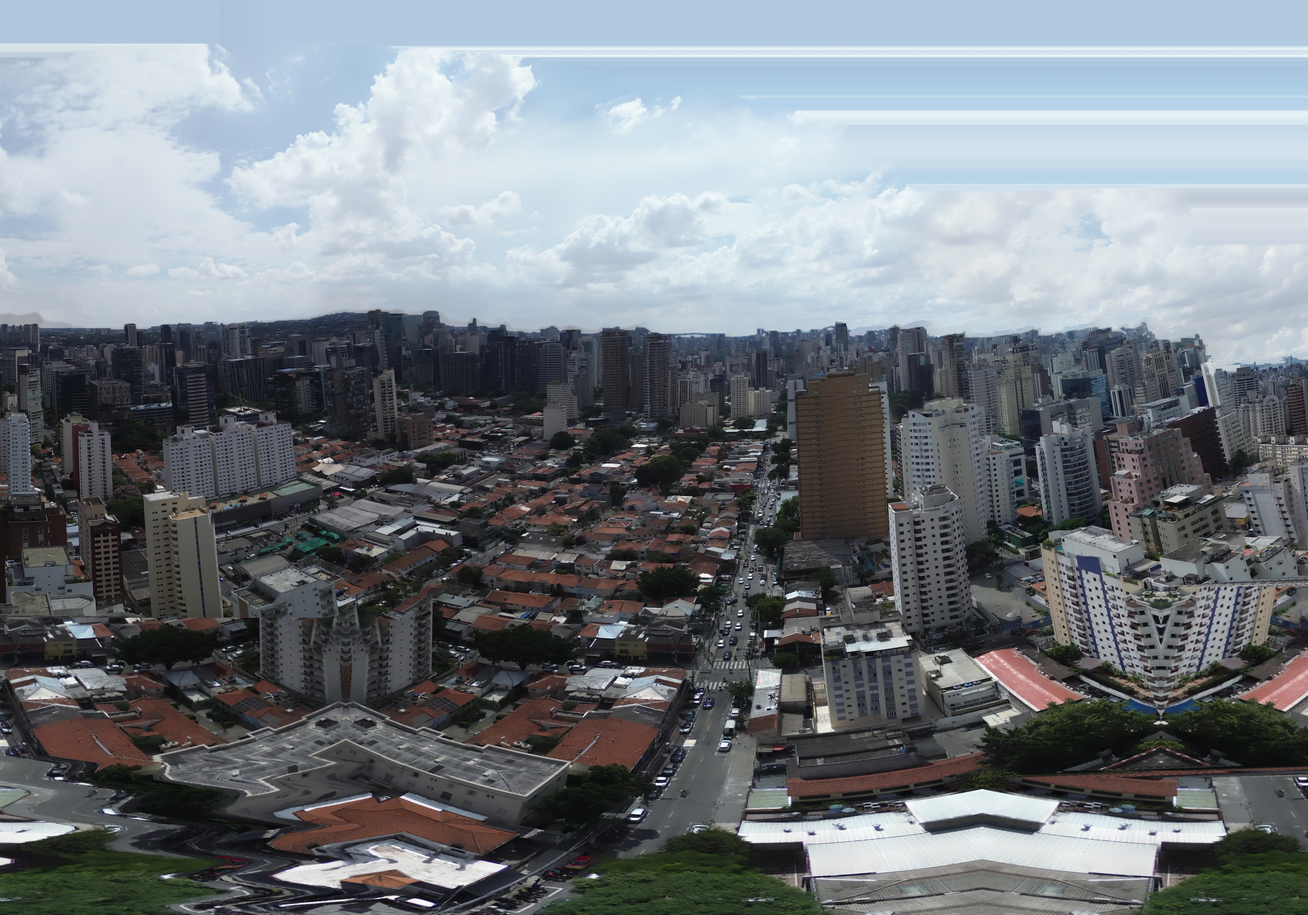
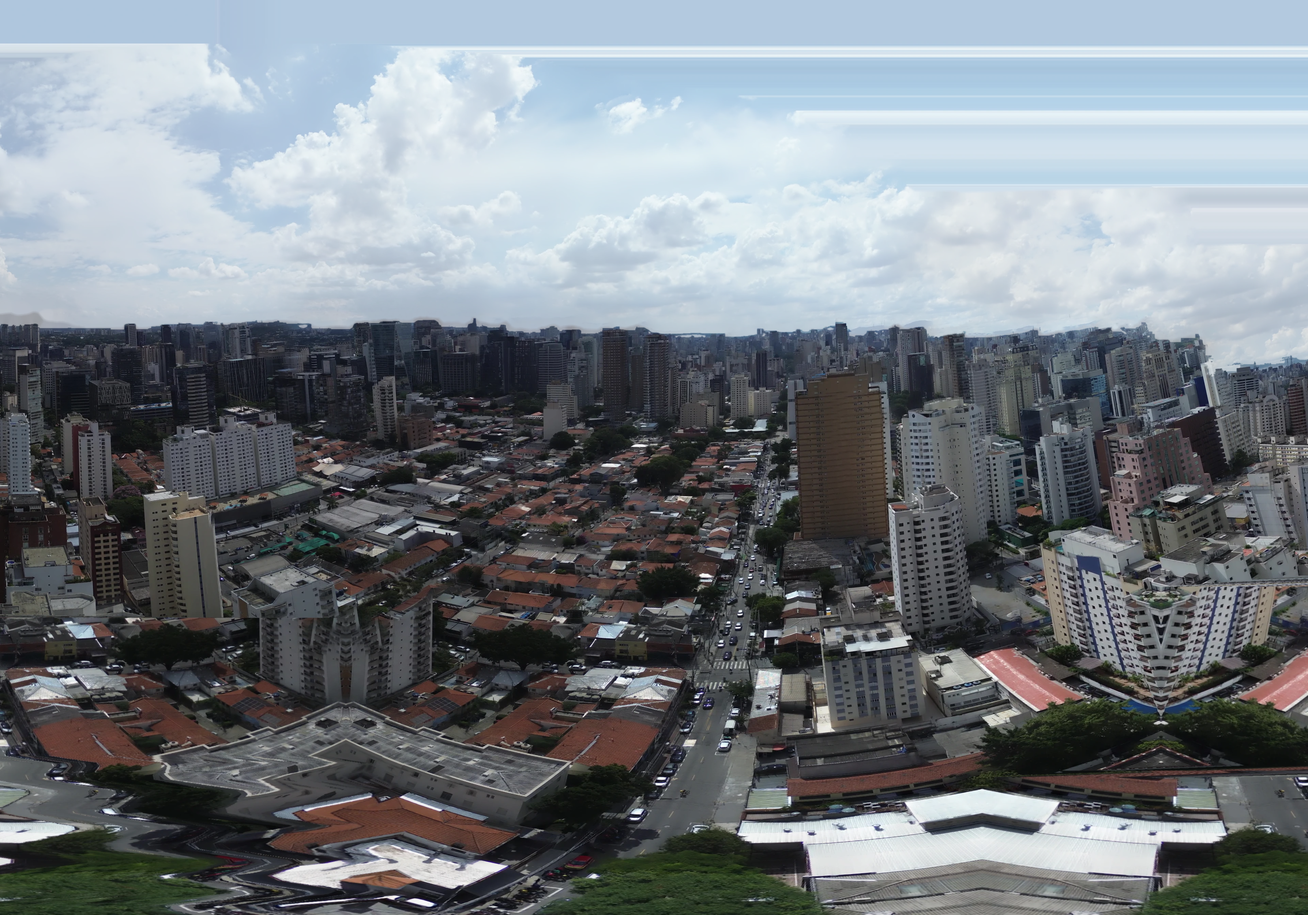
teste-vista v2.1: ceu com nuvens reais do drone em todas as horas (pintadas por hora), sem fantasma de costura no horizonte, luzes das torres do fundo + brilho da cidade (E0, 22/10)

Changed region(s): [[0.2188, 0.2812, 0.3438, 0.4688]]

diff --git a/teste-vista/src/vista-gerada.js b/teste-vista/src/vista-gerada.js
@@ -34,6 +34,11 @@ uniform vec3 nevoa;        // haze colour of the hour (low sun / dusk)
 uniform float forca;
 uniform float alfaMeio;
 uniform float kCeuFoto;    // v2: the drone's own cloudy sky by day (faded above 18-28 deg, where the stitch ends)
+uniform sampler2D tCeu;    // v2.1: real cloud dome (drone), lon/lat at infinity, alpha = clouds (fades to the clear zenith)
+uniform vec4 faixaCeu;     // lon0, lon1, lat0, lat1 (radians) of tCeu
+uniform float usaCeu;
+uniform vec4 pesos;        // manha, ouro (17h gold), crep (18h30 dusk), noite
+uniform vec3 zenite;       // clear-sky zenith colour of the hour (linear)
 vec3 lin(vec3 c){ return pow(max(c, vec3(0.0)), vec3(2.2)); }
 vec3 paraSrgb(vec3 c){ c = max(c, vec3(0.0)); return mix(c * 12.92, 1.055 * pow(c, vec3(1.0 / 2.4)) - 0.055, step(0.0031308, c)); }
 void main(){
@@ -52,6 +57,36 @@ void main(){
   vec2 uv = vec2((lon - faixa.x) / (faixa.y - faixa.x), (lat - faixa.z) / (faixa.w - faixa.z));
   float el = asin(clamp(r.z, -1.0, 1.0));
   vec3 ceu = mix(ceuHoriz, ceuTopo, smoothstep(0.0, 0.75, el));
+  if (usaCeu > 0.5) {   // v2.1: the REAL clouds at every hour, painted per hour (gold rims, pink/orange dusk, dark clouds at night)
+    float lonR = atan(r.y, r.x);
+    vec2 uc = vec2((lonR - faixaCeu.x) / (faixaCeu.y - faixaCeu.x), (el - faixaCeu.z) / (faixaCeu.w - faixaCeu.z));
+    vec4 S = texture2D(tCeu, clamp(uc, vec2(0.0005), vec2(0.9995)));
+    vec3 cs = lin(S.rgb);
+    float ls = dot(cs, vec3(0.2126, 0.7152, 0.0722));
+    float azul = clamp((cs.b - cs.r) / (cs.b + 0.02), 0.0, 1.0);
+    float nuvem = 1.0 - smoothstep(0.18, 0.78, azul);          // white/grey = cloud, saturated blue = clear sky
+    float aS = S.a;   // below 0 deg (higher floors see the sky dip under the eye line) = the horizon row of the dome
+    // day: the photo, filtered like the city
+    vec3 dia = cs * tinta * expo;
+    dia = mix(zenite, dia, aS);
+    // 17h gold: warm cast + lit cloud rims (the brightest cloud tops catch the low sun)
+    vec3 ouro = cs * vec3(1.32, 0.95, 0.62) * expo + nuvem * pow(ls, 1.4) * vec3(0.95, 0.48, 0.10);
+    ouro = mix(zenite, ouro, aS);
+    // 18h30 dusk: clouds pink/orange (orange near the horizon), the clear sky blue, darker above
+    float baixo = smoothstep(0.45, 0.02, el);
+    vec3 corN = mix(vec3(0.95, 0.40, 0.42), vec3(1.05, 0.52, 0.22), baixo) * (0.10 + 0.85 * pow(ls, 0.8));
+    vec3 corC = mix(ceuHoriz, ceuTopo, smoothstep(0.0, 0.7, el)) * (0.55 + 0.9 * ls);
+    vec3 crep = mix(corC, corN, nuvem);
+    crep = mix(mix(ceuHoriz, ceuTopo, smoothstep(0.0, 0.75, el)), crep, aS);
+    // 21h: dark clouds over navy, lit from below by the city near the horizon
+    vec3 noiteN = vec3(0.020, 0.026, 0.050) * (0.5 + 1.6 * ls) + vec3(0.060, 0.034, 0.016) * smoothstep(0.30, 0.0, el);
+    vec3 noite = mix(mix(ceuHoriz, ceuTopo, smoothstep(0.0, 0.75, el)), noiteN, nuvem * aS);
+    vec3 cc = mix(dia, ouro, pesos.y);
+    cc = mix(cc, crep, pesos.z);
+    cc = mix(cc, noite, pesos.w);
+    ceu = cc;
+  }
+  ceu += vec3(0.11, 0.06, 0.028) * kNoite * exp(-max(el, 0.0) / 0.06);   // city glow on the horizon at night
   vec3 cor = ceu;
   if (uv.x > 0.0 && uv.x < 1.0 && uv.y > 0.0 && uv.y < 1.0) {
     vec4 B = texture2D(tBase, uv);
@@ -61,10 +96,7 @@ void main(){
     x = mix(vec3(l), x, sat);
     x = 0.18 * pow(max(x, vec3(0.0)) / 0.18, vec3(contraste));
     x = x * (1.0 - escuro) + lin(texture2D(tNoite, uv).rgb) * kNoite;
-    vec3 cf = lin(B.rgb) * mix(vec3(1.0), tinta, 0.6) * expo;
-    float wf = kCeuFoto * smoothstep(0.36, 0.21, lat);   // fade the real sky out between 21 and 12 deg (the stitch border lies above)
-    vec3 ceuF = mix(ceu, cf, wf);
-    cor = mix(ceuF, x, B.a);
+    cor = mix(ceu, x, B.a);
   }
   float aw = m * forca;
   gl_FragColor = vec4(paraSrgb(cor) * aw, aw);             // premultiplied (blend ONE, ONE_MINUS_SRC_ALPHA)
@@ -100,8 +132,13 @@ function filtroDaHora(el, minutos) {
   topo = mistura(topo, [0.28, 0.40, 0.68], Math.max(ouro, ouroM)); horiz = mistura(horiz, [1.0, 0.70, 0.40], Math.max(ouro, ouroM));
   topo = mistura(topo, [0.10, 0.14, 0.40], crep); horiz = mistura(horiz, [0.98, 0.56, 0.58], crep);
   topo = mistura(topo, [0.006, 0.012, 0.045], noite); horiz = mistura(horiz, [0.035, 0.05, 0.13], noite);
-  const kCeuFoto = suave(2, 14, el) * (1 - 0.5 * ouro);   // real clouds by day, the gradient takes over at golden hour/dusk/night
-  return { kCeuFoto, tinta, expo, sat, contraste, kNoite, escuro: 0, topo, horiz, nevoa: horiz, pesos: { manha, ouro, crep, noite } };
+  const kCeuFoto = 0;
+  // clear-sky zenith above the real clouds (linear): photo blue by day, deeper at gold, violet-blue at dusk, navy at night
+  let zenite = mistura([0.09, 0.22, 0.62], [0.10, 0.20, 0.55], manha);
+  zenite = mistura(zenite, [0.10, 0.17, 0.42], ouro);
+  zenite = mistura(zenite, [0.05, 0.07, 0.24], crep);
+  zenite = mistura(zenite, [0.004, 0.008, 0.03], noite);   // real clouds by day, the gradient takes over at golden hour/dusk/night
+  return { kCeuFoto, zenite, tinta, expo, sat, contraste, kNoite, escuro: 0, topo, horiz, nevoa: horiz, pesos: { manha, ouro, crep, noite } };
 }
 
 async function criarVistaGerada({ cena, PTS, andar, final, RAIO, base = "assets/vista-gerada/" }) {
@@ -116,7 +153,7 @@ async function criarVistaGerada({ cena, PTS, andar, final, RAIO, base = "assets/
     t.colorSpace = THREE.NoColorSpace; t.generateMipmaps = true; t.minFilter = THREE.LinearMipmapLinearFilter; t.magFilter = THREE.LinearFilter;
     t.anisotropy = 4; ok(t);
   }, undefined, () => ok(null)));
-  const [tBase, tNoite] = await Promise.all([carrega(face.base), carrega(face.noite)]);
+  const [tBase, tNoite, tCeu] = await Promise.all([carrega(face.base), carrega(face.noite), face.ceu ? carrega(face.ceu) : Promise.resolve(null)]);
   if (!tBase) return null;
   const preto = new THREE.DataTexture(new Uint8Array([0, 0, 0, 255]), 1, 1); preto.needsUpdate = true;
   const U = {
@@ -124,7 +161,8 @@ async function criarVistaGerada({ cena, PTS, andar, final, RAIO, base = "assets/
     O: { value: new THREE.Vector3() }, R: { value: face.raio_m }, chao: { value: face.chao_m },
     faixa: { value: new THREE.Vector4(...face.lon.map((x) => x * Math.PI / 180), ...face.lat.map((x) => x * Math.PI / 180)) },
     tinta: { value: new THREE.Vector3(1, 1, 1) }, expo: { value: 1 }, sat: { value: 1 }, contraste: { value: 1 }, kNoite: { value: 0 }, escuro: { value: 0 },
-    kCeuFoto: { value: 0 }, alfaMeio: { value: face.alfa_meio ? 1 : 0 }, ceuTopo: { value: new THREE.Vector3() }, ceuHoriz: { value: new THREE.Vector3() }, nevoa: { value: new THREE.Vector3() }, forca: { value: 1 },
+    kCeuFoto: { value: 0 }, tCeu: { value: tCeu || preto }, usaCeu: { value: tCeu ? 1 : 0 }, pesos: { value: new THREE.Vector4() }, zenite: { value: new THREE.Vector3() },
+    faixaCeu: { value: new THREE.Vector4(...(face.ceu_lon || [-95, 105]).map((x) => x * Math.PI / 180), ...(face.ceu_lat || [0, 70]).map((x) => x * Math.PI / 180)) }, alfaMeio: { value: face.alfa_meio ? 1 : 0 }, ceuTopo: { value: new THREE.Vector3() }, ceuHoriz: { value: new THREE.Vector3() }, nevoa: { value: new THREE.Vector3() }, forca: { value: 1 },
   };
   const mat = new THREE.ShaderMaterial({ vertexShader: VERT, fragmentShader: FRAG, uniforms: U, transparent: true, depthTest: false, depthWrite: false,
     blending: THREE.CustomBlending, blendEquation: THREE.AddEquation, blendSrc: THREE.OneFactor, blendDst: THREE.OneMinusSrcAlphaFactor });
@@ -157,7 +195,7 @@ async function criarVistaGerada({ cena, PTS, andar, final, RAIO, base = "assets/
     aplicaHora(el, minutos) {
       const F = filtroDaHora(el, minutos);
       U.tinta.value.set(...F.tinta); U.expo.value = F.expo; U.sat.value = F.sat; U.contraste.value = F.contraste; U.kNoite.value = F.kNoite; U.escuro.value = F.escuro;
-      U.kCeuFoto.value = (face.ceu_foto ? 1 : 0) * F.kCeuFoto; U.ceuTopo.value.set(...F.topo); U.ceuHoriz.value.set(...F.horiz); U.nevoa.value.set(...F.nevoa);
+      U.kCeuFoto.value = 0; U.pesos.value.set(F.pesos.manha, F.pesos.ouro, F.pesos.crep, F.pesos.noite); U.zenite.value.set(...F.zenite); U.ceuTopo.value.set(...F.topo); U.ceuHoriz.value.set(...F.horiz); U.nevoa.value.set(...F.nevoa);
       if (typeof window !== "undefined") window.__vistaGerada = { ponto: atual, el: +el.toFixed(2), minutos, O: U.O.value.toArray().map((x) => +x.toFixed(2)), andar: nAndar, ...F };
     },
     antes(camera, ponto, andando) {
@@ -165,7 +203,7 @@ async function criarVistaGerada({ cena, PTS, andar, final, RAIO, base = "assets/
       malha.visible = ve; credito.hidden = !ve;
       if (ve) malha.position.copy(camera.position);
     },
-    liberar() { cena.remove(malha); geo.dispose(); mat.dispose(); tBase.dispose(); if (tNoite) tNoite.dispose(); credito.remove(); css.remove(); },
+    liberar() { cena.remove(malha); geo.dispose(); mat.dispose(); tBase.dispose(); if (tNoite) tNoite.dispose(); if (tCeu) tCeu.dispose(); credito.remove(); css.remove(); },
   };
   return VG;
 }
